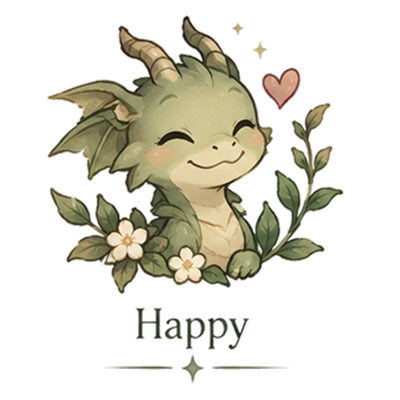
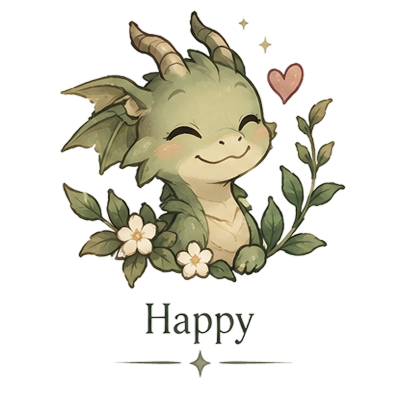
.

diff --git a/css/addBook.css b/css/addBook.css
@@ -47,12 +47,12 @@
 
 #boxOne {
     display: flex;
-    gap: 75px;
+    justify-content: space-between;
 }
 
 #boxTwo {
     display: flex;
-    gap: 55px;
+    justify-content: space-between;
 }
 
 #boxThree {
@@ -93,10 +93,12 @@
 
 #emotionsLabel {
     position: absolute;
+    height: 75px;
+    top: -49px;
 }
 
 #feelingsForBook {
-    width: 684px;
+    width: 646px;
     position: relative;
 }
 
@@ -134,7 +136,7 @@
 }
 
 #infoDIV {
-    width: 58%;
+    width: 53%;
     position: relative;
 }
 
@@ -194,7 +196,7 @@ input[type="text"] {
 }
 
 #summaryDIV {
-    width: 83%;
+    width: 93%;
 }
 
 #seriesInfo {
